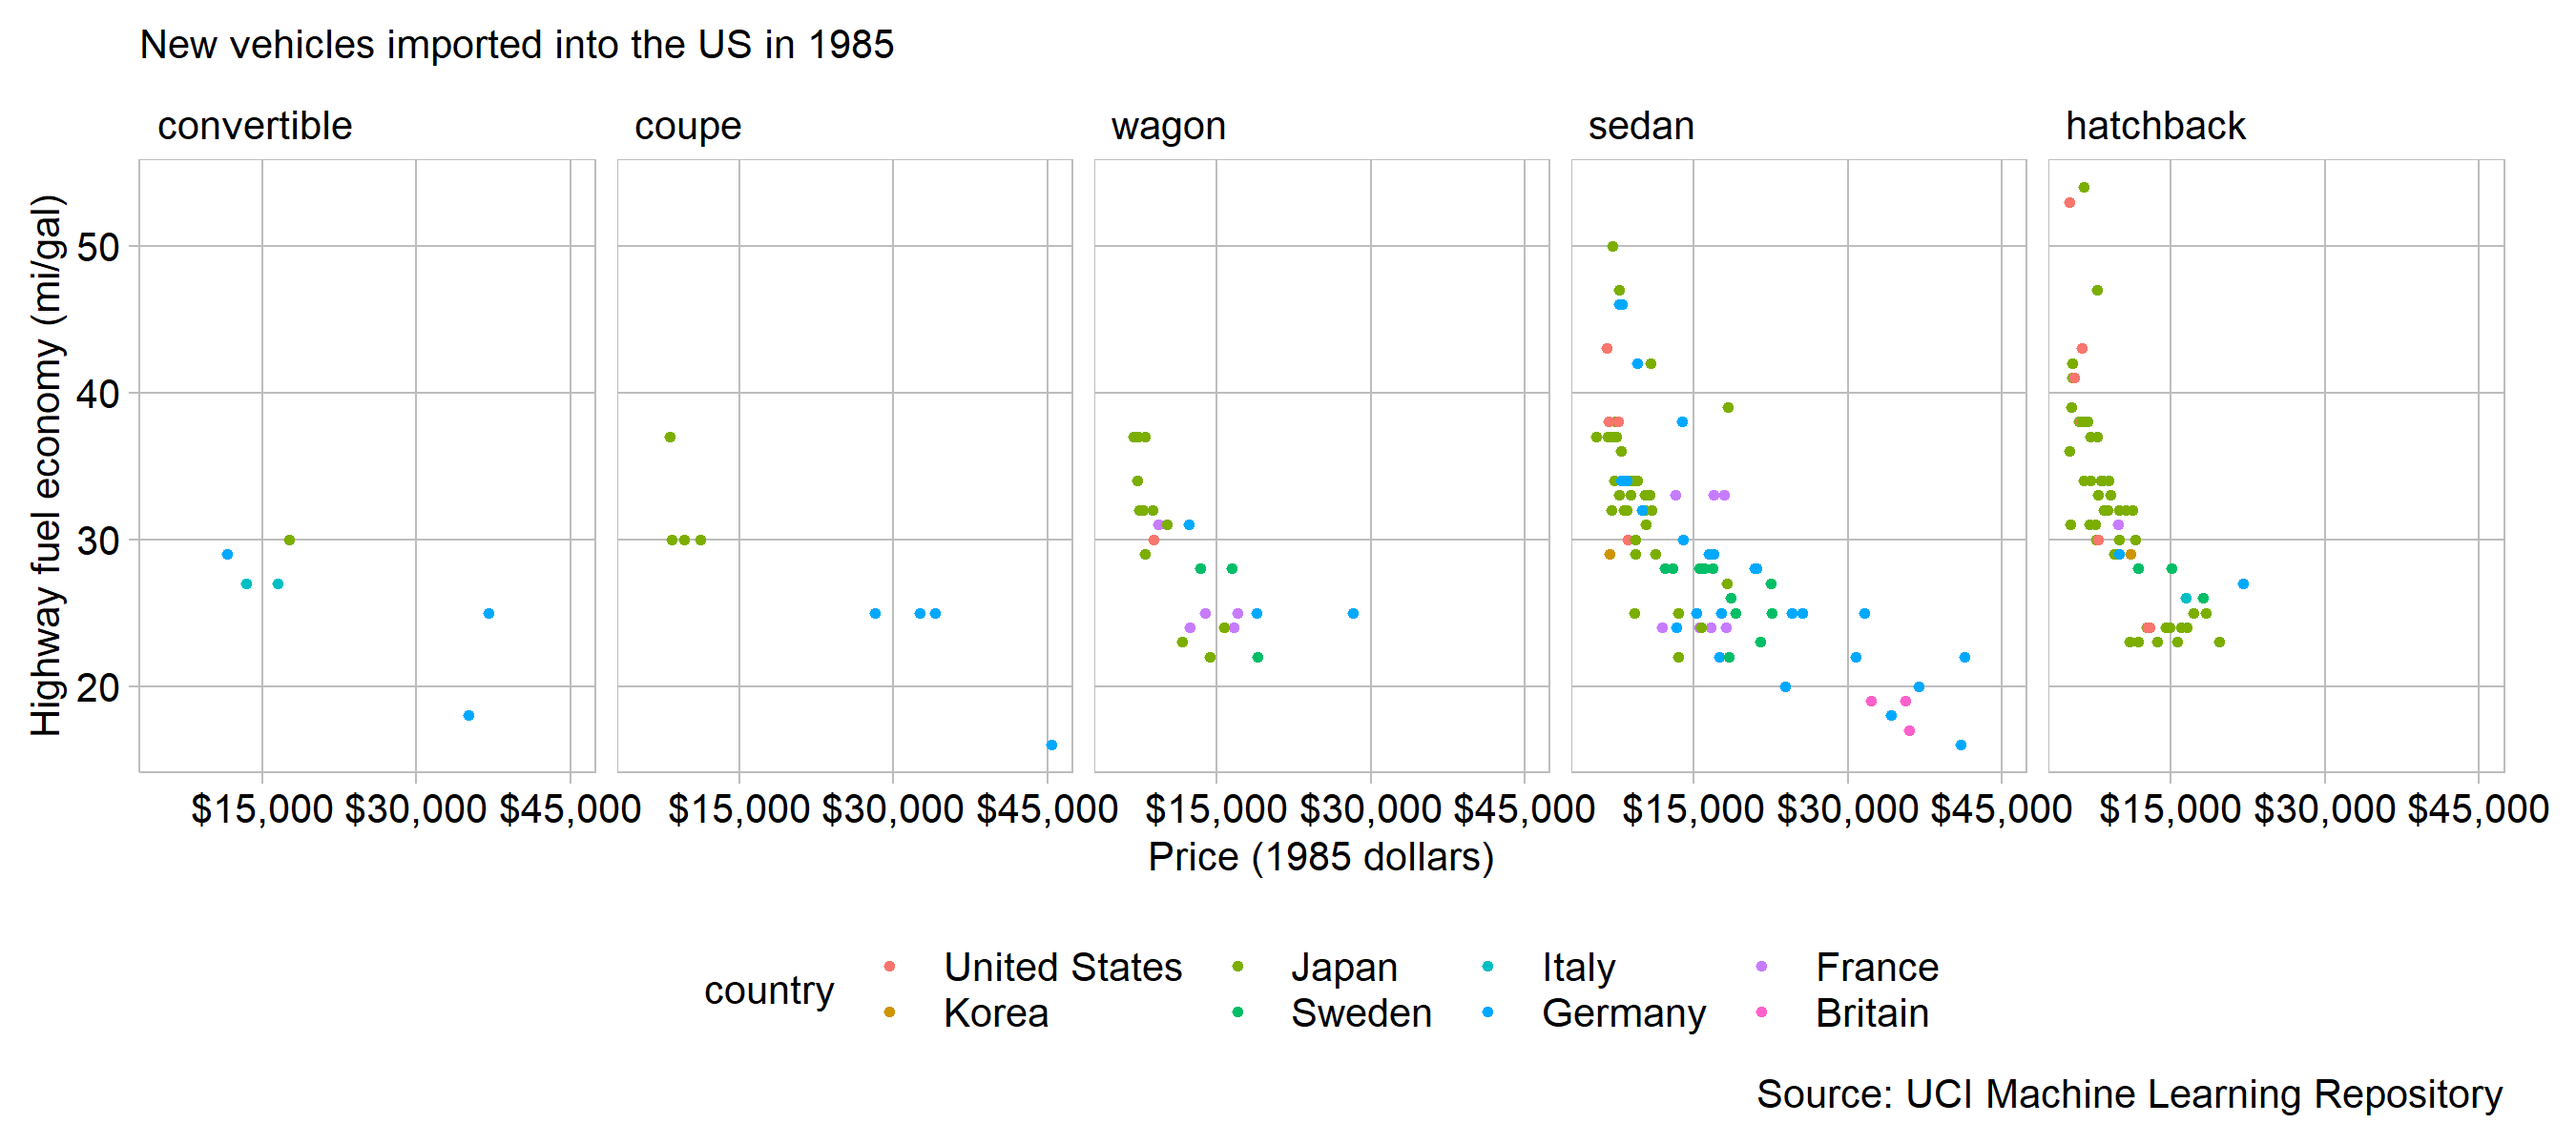
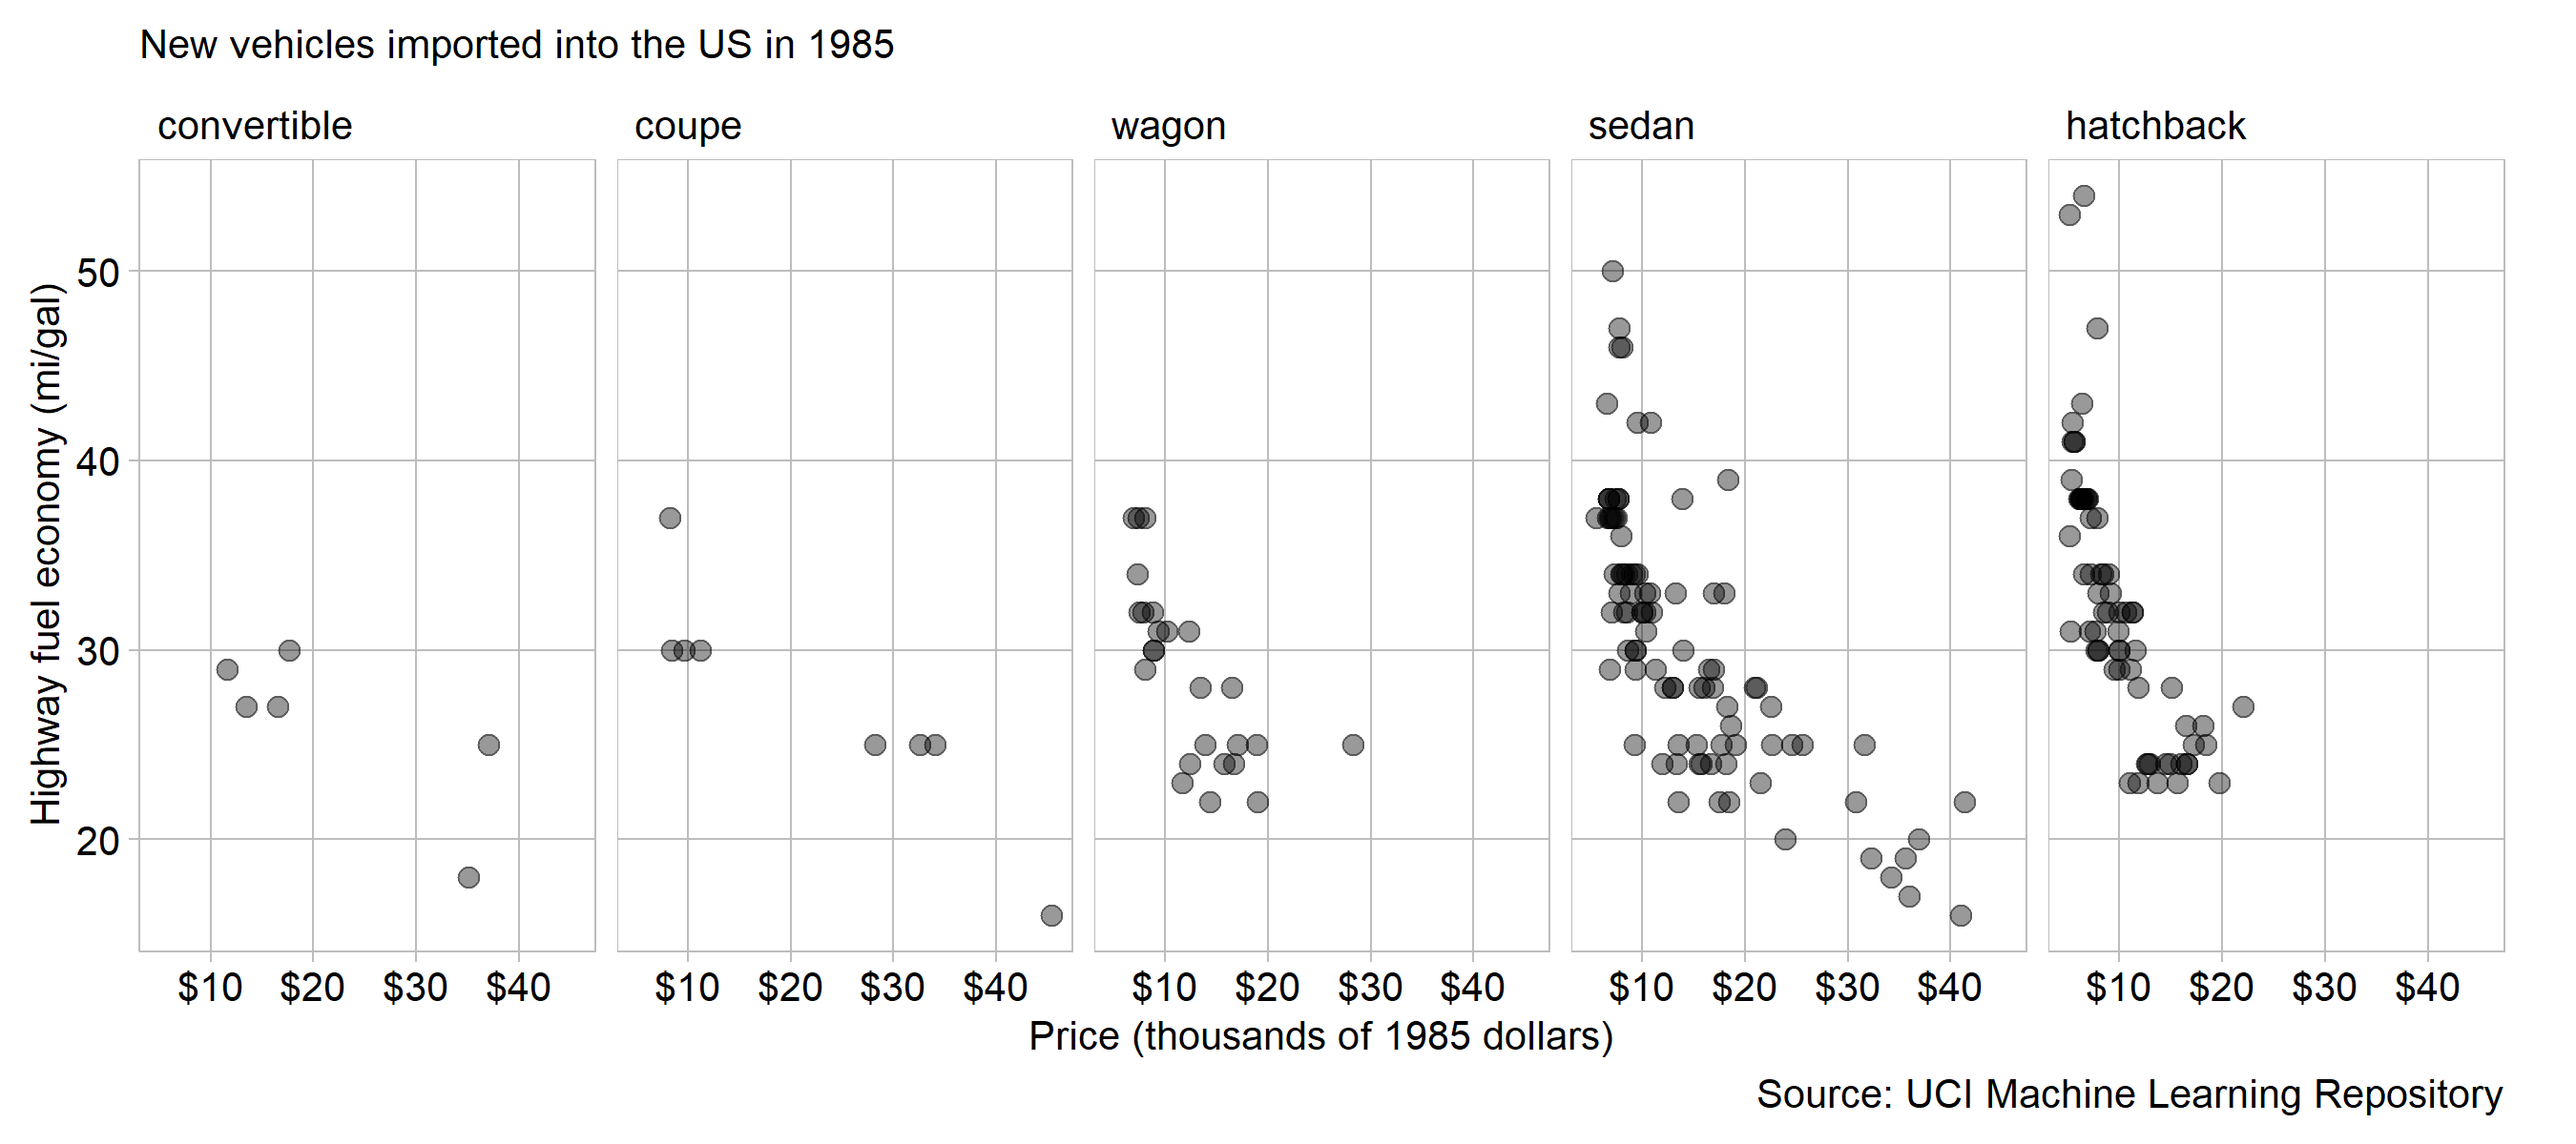
D3 report revisions, graph revisions, updated README for change in title

diff --git a/reports/D3-report.md b/reports/D3-report.md
@@ -5,43 +5,47 @@ There is a strongly inverse correlation between vehicle price and
 highway fuel economy. Of the cars imported into the US in 1985, there
 were not expensive cars that achieved good fuel economy nor were there
 inexpensive cars with poor fuel economy (Dua and Graff,
-[2017](#ref-Dua:2019)).
+[2017](#ref-Dua:2017)).
 
 <img src="../figures/D3-scatterplot-imports.png" width="100%" />
 
 An explanation of the trend can be traced back to companies producing
 products that satisfy consumer preferences. Simply put, brands make cars
-people want to buy- theoretically. The following explanations make sense
-from the view of the producer targeting consumers. No conclusions can be
-made about which vehicles actually appealed to consumers and sold, since
-this data does not include sales or profit information.
+people want to buy. The explanation make sense from the view of the
+producer targeting potential consumers. No conclusions can be made about
+which vehicles actually appealed to consumers and sold, since this data
+does not include sales or profit information.
 
 Sedan and hatchbacks and wagons strongly exhibit an inverse correlation
 between price and economy. A budget conscious shopper prioritizes low
 overall costs: made up of both initial price and operating costs in
 fuel. Hatchbacks are the lowest cost style of car, and also have some of
-the highest economy numbers.
+the highest fuel economy numbers.
 
 Buyers of more expensive cars have different priorities than those of
-hatchbacks and sedans. Around and above the $30,000 mark exist only
-Porsche, a luxury-performance brand, and Mercedes-Benz, the utmost in
-luxury cars. These buyers prefer cars to be comfortable, powerful, or
-have high performance.
+hatchbacks and sedans. All of the vehicles around and above the $30,000
+are Porsche, a luxury-performance brand, or Mercedes-Benz, the
+gold-standard of luxury cars. Buyers willing to spend that much prefer
+cars to be comfortable, have a certain status, or have high performance.
+Overall, there was no real correlation between fuel economy and country
+of origin, which was explored.
 
-There are a few things wrong with this data. It does not represent
+There are a few contextual issues with this data. It does not represent
 domestic manufacturers well, because any american models are merely
 captive-imports: models built by overseas manufactures but sold under
-domestic names. For inexplicable reasons it does not include trucks
-either. This limited view is still meaningful however, because the US
-was the largest automobile market at at the time.
+domestic brands. For inexplicable reasons it does not include trucks
+either. The US was the largest automobile market at at the time, so the
+trends seen in this data likely represent the global trends.
 
-Finding this data for domestic cars may provide additional context to
-this story. Perhaps foreign companies produce more economical cars
-because the domestic producers are leaving that market segment empty. I
-am sure this story would be drastically different with data from current
-years, both because automotive market segments are more diverse than
-ever and because of recent focus on economy and electrification. As
-always, there are more questions than answers.
+Extending this data to include domestic cars may provide additional
+context to this story. Perhaps foreign companies produce more economical
+cars because the domestic producers are leaving that market segment
+empty. This story would be dramatically different with data from current
+years (post 2010). Both because automotive market segments are more
+diverse than ever, and because of recent focus on fuel efficiency and
+electrification. How would current market trends compare to those of
+1985? Do current luxury cars still get poor fuel economy? As always,
+there are more questions than answers.
 
 ## Graph design
 
@@ -55,15 +59,19 @@ Data requirements
 A scatterplot is appropriate for this data because the main interest is
 showing the correlation between two continuous quantitative varibles
 (Doumont, [2009](#ref-Doumont:2009)). Body style and country of origin
-are ancillary variables, included for context and to further the story,
+are ancillary variables, included for context and to further the story
 but they play second fiddle to the scatterplot correlation.
 
 Both factors are ordered by economy, which easily shows which style and
 brand are the most efficient. Who said “order by the data”?
 
-Price is formatted in standard currency form, which enables immediate
-understanding. Care was taken to eliminate label overprinting- the exact
-opposite of clarity.
+This graphic uses the standard theme as discussed in the [D2
+report](https://github.com/severygb/portfolio-severyn-gabe/blob/master/reports/D2-report.md).
+Price is formatted in currency form, which enables immediate
+understanding. Care was taken to eliminate label overprinting by
+changing the axis scale to thousands, eliminating all of the trailing
+zeros. Much of the data in hatchback and sedan is closely clustered, so
+a slight transparency is added to the points.
 
 One of Wainer’s sarcastic visualization rules is “emphasize the trivial,
 ignore the important” (Wainer, [2000](#ref-Wainer:2000)). He means to
@@ -74,14 +82,16 @@ more important factor in correlating price and economy so it is
 separated as panels, while country of origin is relegated to colors
 because it is secondary.
 
-I continue to have good luck and pick datasets with very little missing
-data. Of the variables used in this display, only price contains missing
-values (4 in 205 observations, 2%). The spine chart below shows that the
-missing values are split between the most common body styles (hatchback
-and sedan). From this, we conclude the missing values are not biased to
-a certain body style and do not significantly change the visual story.
+I continue to have good luck and pick
+[datasets](https://archive.ics.uci.edu/ml/datasets/Automobile) with very
+little missing data. Of the variables used in this display, only price
+contains missing values (4 in 205 observations, 2%). The spine chart
+below shows that the missing values are split between the most common
+body styles (hatchback and sedan). From this, we conclude the missing
+values are not biased to a certain body style and do not significantly
+change the visual story.
 
-<img src="../figures/D3-missing-values.png" width="70%" />
+<img src="../figures/D3-missing-values.png" width="60%" />
 
 The few problematic observations are omitted from the graph.
 
@@ -102,7 +112,7 @@ Belgium, 133–143 <http://www.treesmapsandtheorems.com/>
 
 </div>
 
-<div id="ref-Dua:2019">
+<div id="ref-Dua:2017">
 
 Dua D and Graff C (2017) UCI machine learning repository automobile data
 set. <https://archive.ics.uci.edu/ml/datasets/Automobile>

diff --git a/README.md b/README.md
@@ -23,9 +23,9 @@ earnings.
 [Display 2](reports/D2-report.md) US commercial vessels are antiquated A
 multiway reveals a much stronger story than a data table
 
-[Display 3](reports/D3-report.md) Price and fuel economy are mutually
-exclusive This scatterplot shows the inverse relationship of these two
-variables
+[Display 3](reports/D3-report.md) Low price and high fuel economy are
+mutually exclusive This scatterplot shows the inverse relationship of
+these two variables
 
 [Display 4](reports/D4-report.md) Motorsports safety improvements are
 accelerating An ethical display of fatalities in racing, and the
